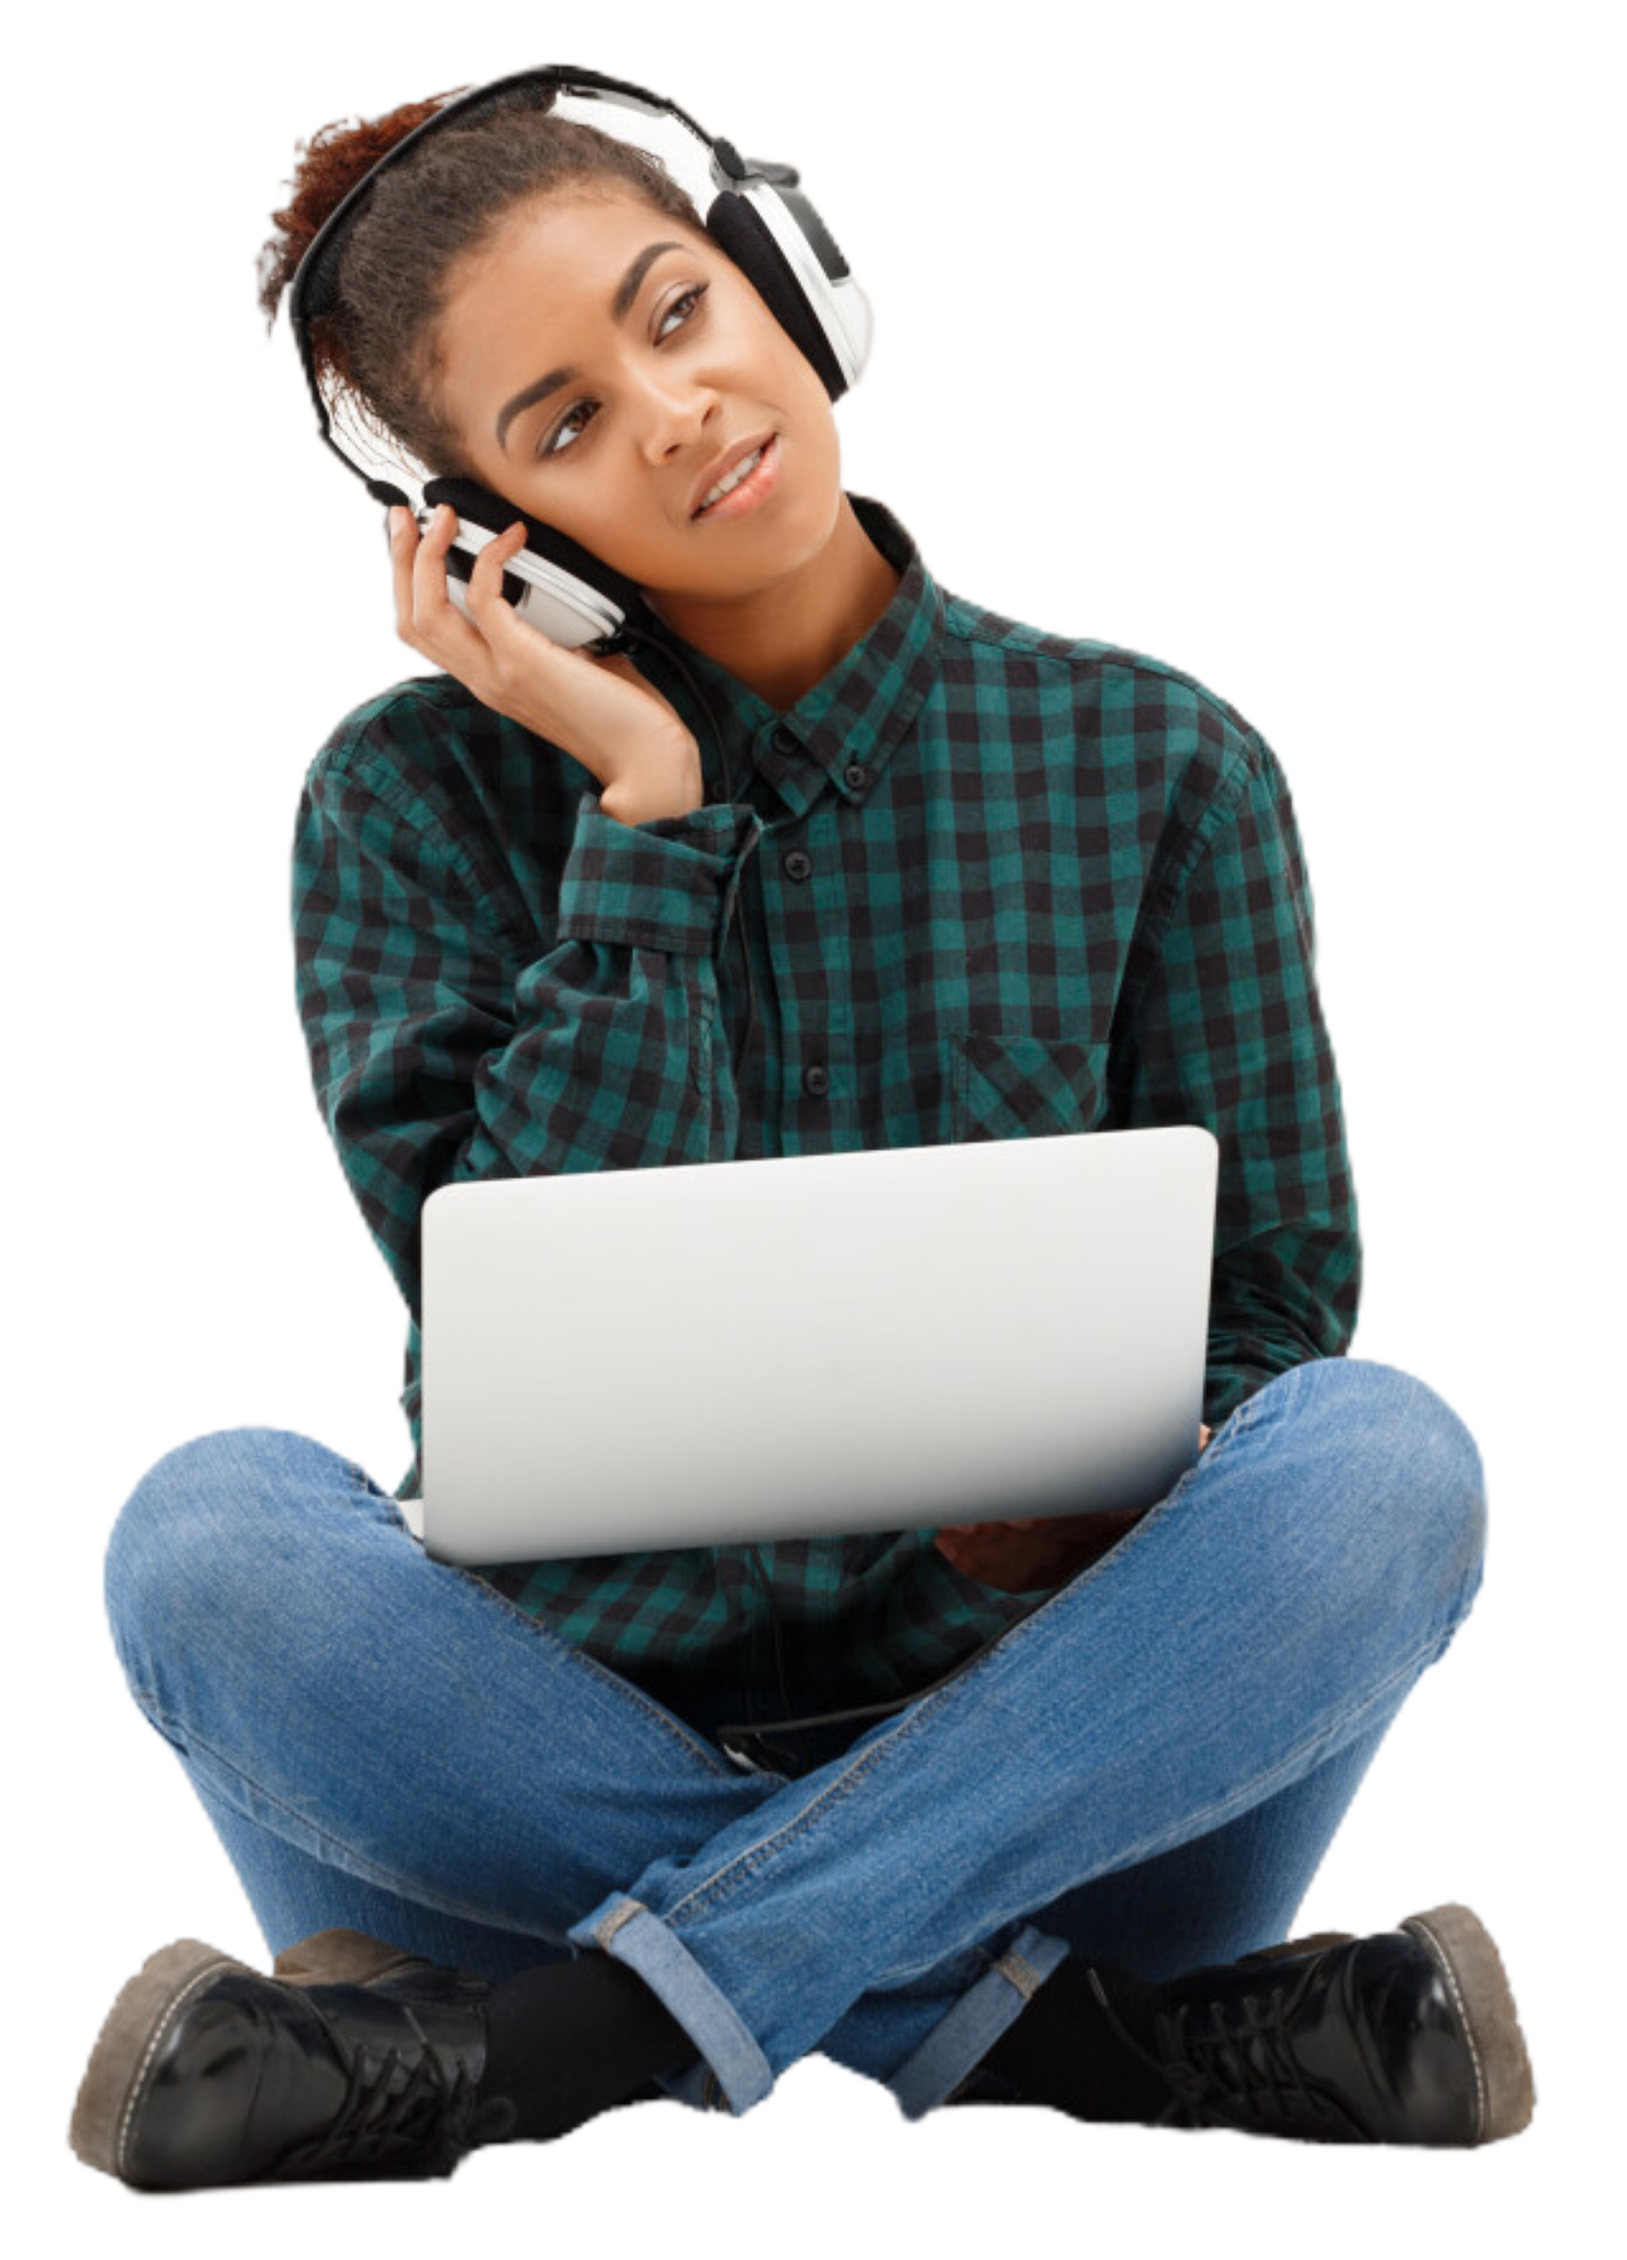
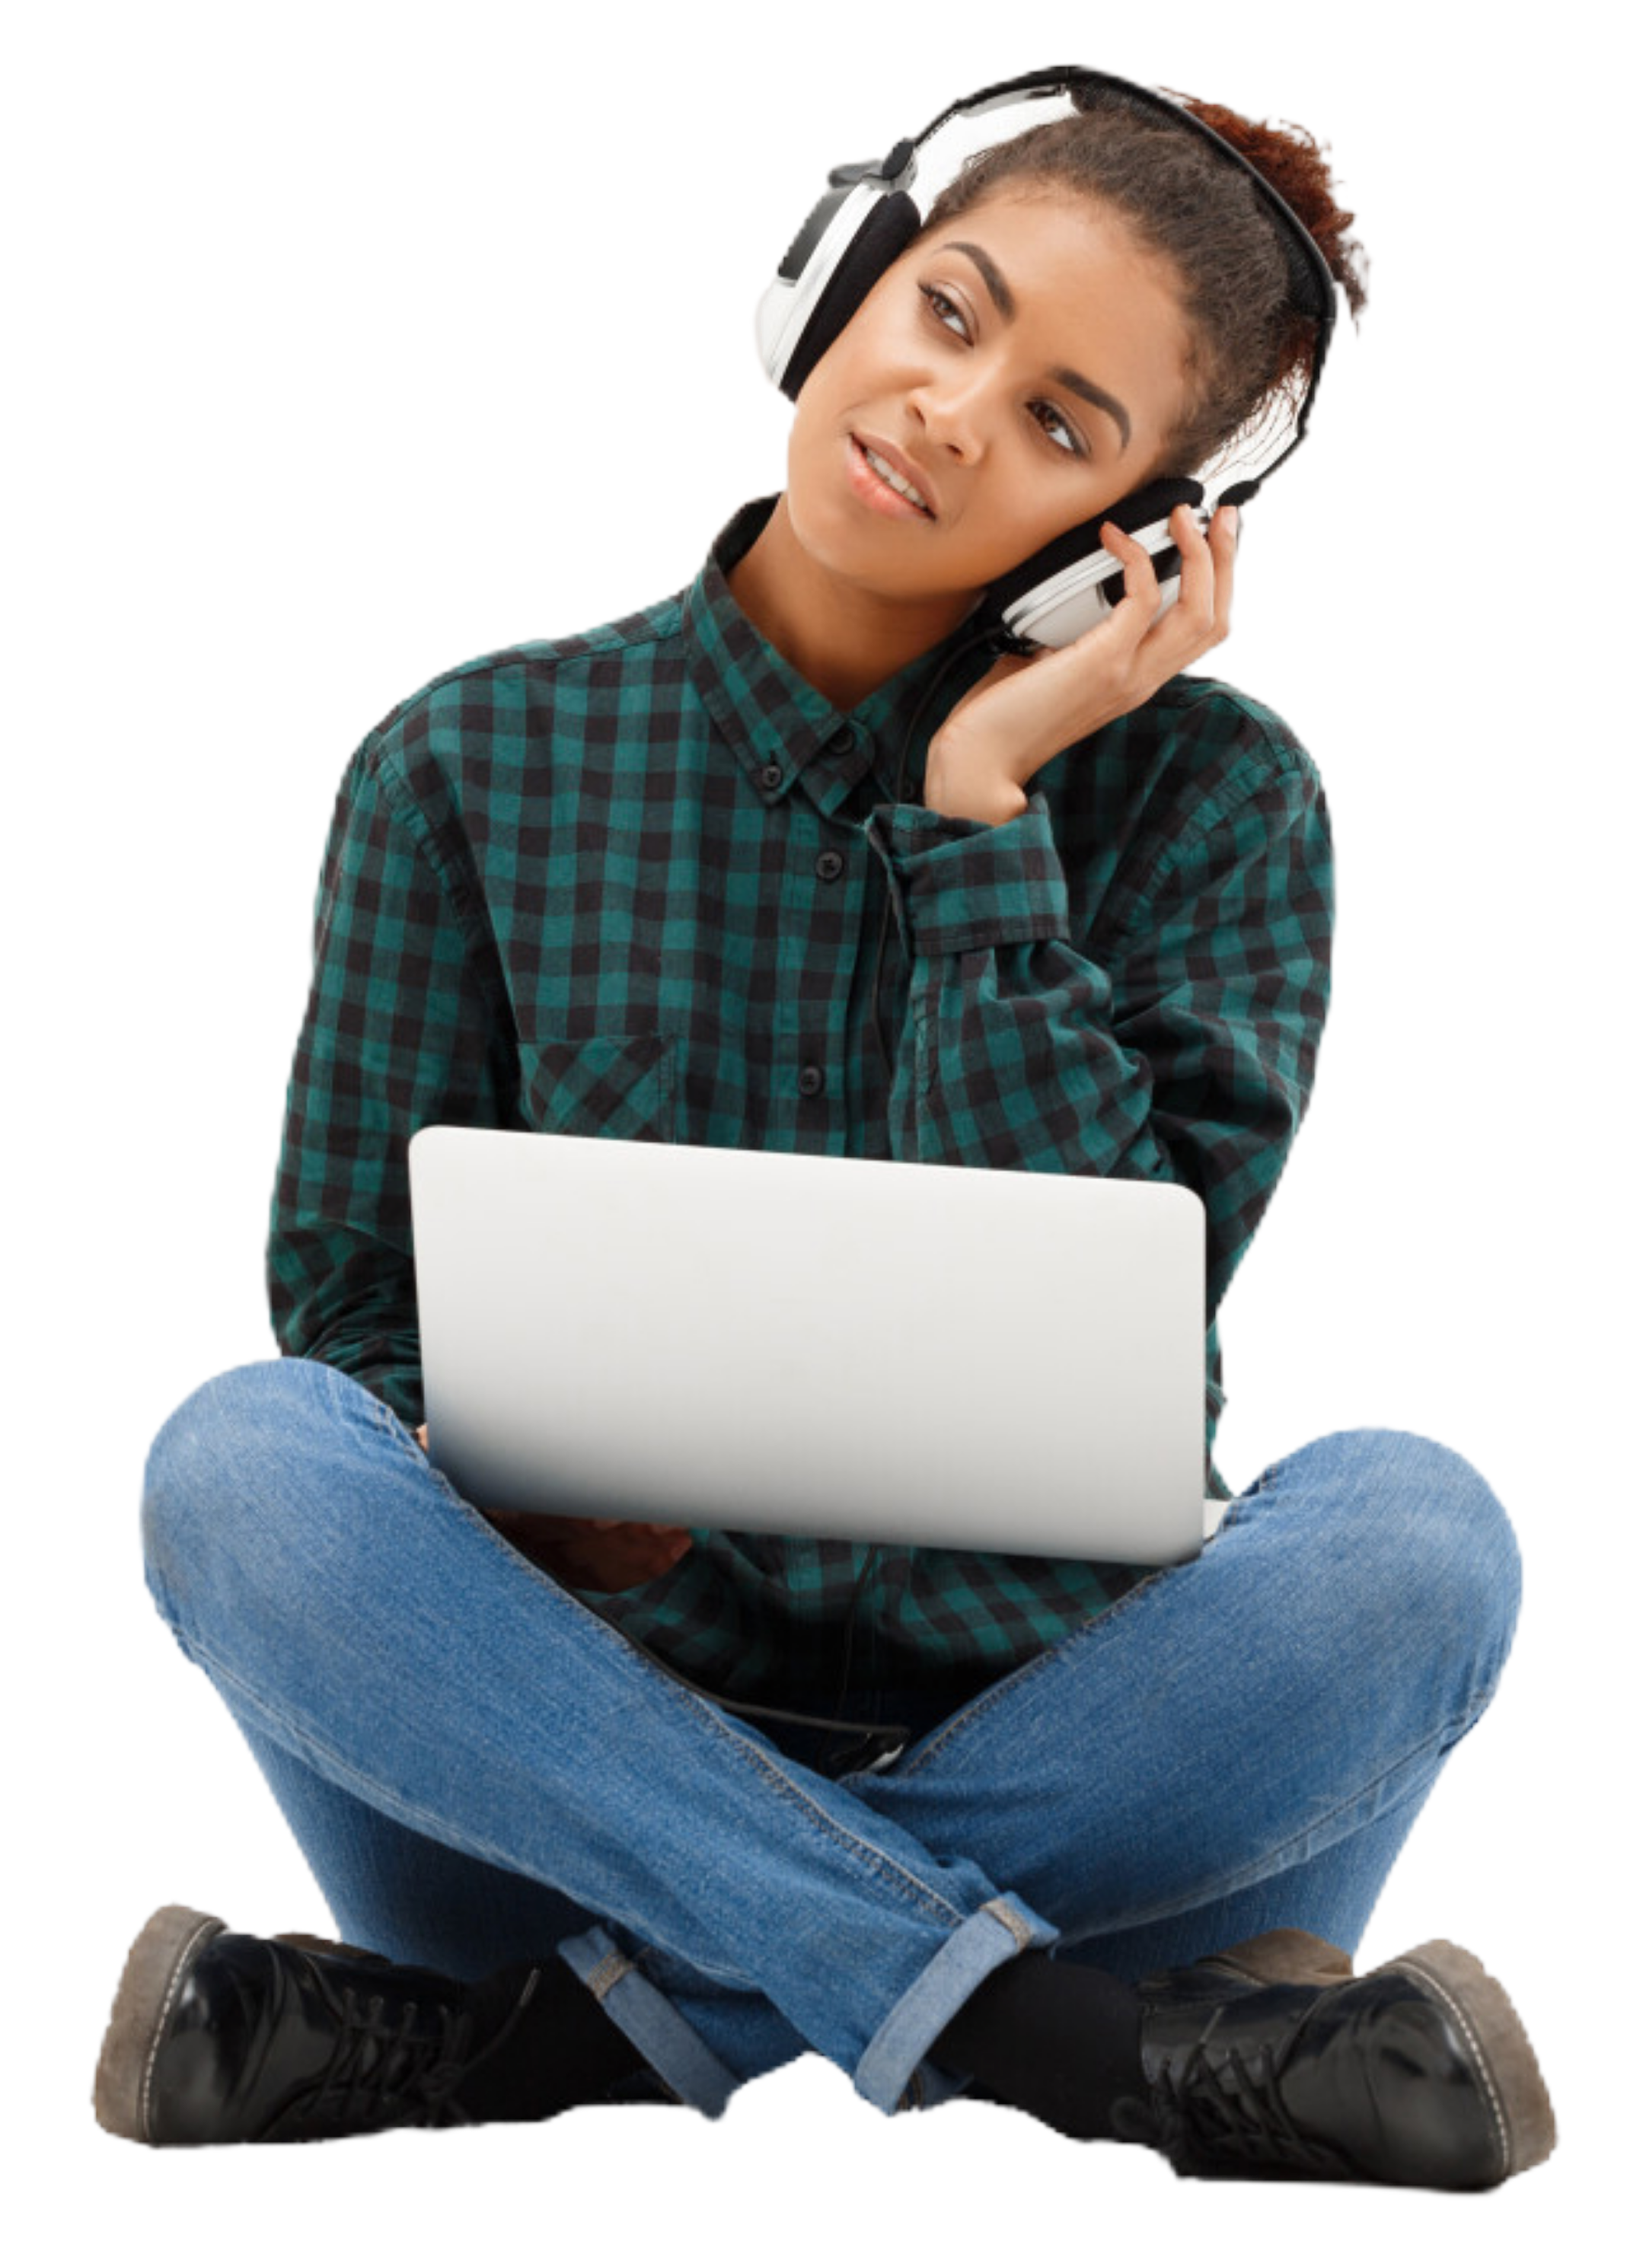
changed design of the hero section

diff --git a/app/components/Courses.tsx b/app/components/Courses.tsx
@@ -1,41 +1,45 @@
 "use client";
 
-import Image from "next/image";
-import React from "react";
 import coding from "@/public/assets/icons/coding.png";
 import cyber_security from "@/public/assets/icons/cyber-security.png";
 import forex_trading from "@/public/assets/icons/forex.png";
 import ui from "@/public/assets/icons/ui.png";
-import machine_learning from "@/public/assets/icons/machine-learning.png";
-import { Bounce, JackInTheBox, Slide } from "react-awesome-reveal";
+import Image from "next/image";
+import { JackInTheBox } from "react-awesome-reveal";
 
 export default function Courses() {
   return (
     <div>
       <div className="grid sm:grid-cols-2 lg:grid-cols-4 w-full gap-8">
-        <JackInTheBox cascade>
+        <JackInTheBox>
           <div className="bg-red-50 w-full rounded p-4 flex flex-row-reverse lg:flex-row items-center gap-2">
             <div className="min-w-12 min-h-12 w-12 h-12 border border-red-400 p-3 rounded-full bg-slate-50 shadow">
               <Image src={cyber_security} alt="" className="rounded-full" />
-            </div>{" "}
+            </div>
             <p className="text-red-600 font-medium">Cyber Security</p>
           </div>
-          <div className="bg-blue-50 w-full rounded p-4 flex items-center gap-2">
+        </JackInTheBox>
+        <JackInTheBox>
+          <div className="bg-slate-50 w-full rounded p-4 flex items-center gap-2">
             <div className="min-w-12 min-h-12 w-12 h-12 border border-blue-400 p-3 rounded-full bg-slate-50 shadow">
               <Image src={coding} alt="" className="rounded-full" />
-            </div>{" "}
+            </div>
             <p className="text-blue-600 font-medium">Web Development</p>
           </div>
+        </JackInTheBox>
+        <JackInTheBox>
           <div className="bg-green-50 w-full rounded p-4 flex flex-row-reverse lg:flex-row items-center gap-2">
             <div className="min-w-12 min-h-12 w-12 h-12  border border-green-400 p-3 rounded-full bg-slate-50 shadow">
               <Image src={forex_trading} alt="" className="rounded-full" />
-            </div>{" "}
+            </div>
             <p className="text-green-600 font-medium">Forex Trading</p>
           </div>
+        </JackInTheBox>
+        <JackInTheBox>
           <div className="bg-violet-50 w-full rounded p-4 flex items-center gap-2">
             <div className="min-w-12 min-h-12 w-12 h-12  border border-violet-400 p-3 rounded-full bg-slate-50 shadow">
               <Image src={ui} alt="" className="rounded-full" />
-            </div>{" "}
+            </div>
             <p className="text-violet-600 font-medium">UI/UX Design</p>
           </div>
         </JackInTheBox>

diff --git a/app/components/Hero.tsx b/app/components/Hero.tsx
@@ -10,20 +10,10 @@ import Image from "next/image";
 
 export default function Hero() {
   return (
-    <main className="min-h-screen w-full justify-center items-center flex flex-col-reverse md:flex-row gap-4 mt-32 md:mt-20 pt-10 md:pt-0">
-      <div className="h-full w-full sm:h-[70%] sm:w-[70%] md:h-full md:w-full flex items-center justify-center md:items-end">
-        <Slide>
-          <Image
-            src={girl_with_laptop}
-            alt="girl with laptop"
-            className="h-[70%] w-[70%]"
-          />
-        </Slide>
-      </div>
-
+    <main className="min-h-screen w-full justify-center items-center flex flex-col md:flex-row gap-4 mt-32 md:mt-20 pt-10 md:pt-0">
       <div className="w-full flex flex-col gap-4">
         <Bounce>
-          <h1 className="text-5xl xl:text-7xl md:text-center font-bold leading-snug md:leading-snug text-slate-800">
+          <h1 className="text-5xl xl:text-7xl font-bold leading-snug md:leading-snug text-slate-800">
             Learn<span className="text-blue-600 px-2 font-bold">Today,</span>{" "}
             <br />
             Lead<span className="text-blue-600 px-2 font-bold">
@@ -32,7 +22,7 @@ export default function Hero() {
             in Tech.
           </h1>
         </Bounce>
-        <p className="md:text-center font-medium text-slate-600">
+        <p className="font-medium text-slate-600">
           <Typewriter
             words={[
               "Join Synproxi and gain the skills you need to succeed in the ever-evolving tech landscape.",
@@ -44,7 +34,7 @@ export default function Hero() {
             delaySpeed={1000}
           />
         </p>
-        <div className="mt-8 flex flex-col justify-center lg:flex-row gap-4 w-full">
+        <div className="mt-8 flex flex-col lg:flex-row gap-4 w-full">
           <Bounce cascade>
             <button className="group px-8 py-4 transition-all text-slate-50 bg-blue-600 hover:bg-blue-800 flex items-center justify-center gap-4 rounded-full shadow-lg hover:shadow-sm w-full lg:w-fit">
               <p className="font-medium">Find Course</p>
@@ -58,6 +48,19 @@ export default function Hero() {
             </button>
           </Bounce>
         </div>
+      </div>
+
+      <div className="h-full w-full sm:h-[70%] sm:w-[70%] md:h-full md:w-full flex items-center justify-center pt-10">
+        <Slide
+          direction="right"
+          className="w-full flex items-center justify-center"
+        >
+          <Image
+            src={girl_with_laptop}
+            alt="girl with laptop"
+            className="h-[70%] w-[70%]"
+          />
+        </Slide>
       </div>
     </main>
   );

diff --git a/app/components/Navbar.tsx b/app/components/Navbar.tsx
@@ -1,7 +1,5 @@
 "use client";
 
-import synproxi_text_logo from "@/public/assets/images/synproxi_text_logo.png";
-import Image from "next/image";
 import { useState } from "react";
 import { AiOutlineClose } from "react-icons/ai";
 import { HiMenuAlt3 } from "react-icons/hi";
@@ -10,11 +8,11 @@ import { IoIosArrowForward } from "react-icons/io";
 export default function Navbar() {
   const [menu, setMenu] = useState<boolean>(false);
   return (
-    <nav className="py-6 z-40 fixed w-full flex items-center justify-center bg-slate-50 shadow border-b border-slate-300 ">
+    <nav className="py-4 z-40 fixed w-full flex items-center justify-center bg-slate-50">
       <div className="w-[90%] lg:w-[85%]">
         <div className="flex items-center justify-between gap-4">
           <div className="z-50">
-            <p className="text-3xl font-bold bg-slate-50 shadow shadow-blue-600 py-1 px-2 rounded border border-blue-200">
+            <p className="text-2xl md:text-3xl font-bold ">
               Syn<span className="text-blue-600">Proxi</span>
             </p>
           </div>
@@ -22,7 +20,7 @@ export default function Navbar() {
           <div
             className={`lg:flex gap-10 ${
               menu
-                ? "fixed h-screen w-4/6 md:w-1/2 top-0 left-0 flex flex-col bg-slate-50 border-r border-slate-300 shadow p-8 pt-28"
+                ? "fixed h-screen w-4/6 md:w-1/2 top-0 left-0 flex flex-col bg-blue-50 shadow p-8 pt-28"
                 : "hidden"
             }`}
           >
@@ -44,7 +42,7 @@ export default function Navbar() {
             <button
               className={`group px-4 py-2 transition-all text-slate-50 bg-blue-600 hover:bg-blue-800 hover:shadow-lg duration-300 flex items-center gap-4 rounded w-fit`}
             >
-              <p className="font-medium">Join For Free</p>
+              <p className="font-medium text-sm">Join For Free</p>
 
               <div className="group-hover:bg-blue-200 transition-all flex items-center justify-center p-2 bg-blue-100 text-blue-600 rounded">
                 <IoIosArrowForward size={24} />

diff --git a/app/layout.tsx b/app/layout.tsx
@@ -1,10 +1,11 @@
 import type { Metadata } from "next";
-import { DM_Sans } from "next/font/google";
+import { Sora } from "next/font/google";
 import "./globals.css";
 import Navbar from "./components/Navbar";
 
-const dm_sans = DM_Sans({
+const sora = Sora({
   subsets: ["latin"],
+  weight: ["100", "200", "300", "400", "500", "600", "700", "800"],
 });
 
 export const metadata: Metadata = {
@@ -19,7 +20,7 @@ export default function RootLayout({
 }>) {
   return (
     <html lang="en">
-      <body className={`${dm_sans.className} bg-slate-50 w-full h-full flex`}>
+      <body className={`${sora.className} bg-blue-50 w-full h-full flex`}>
         <div className="w-full h-full flex flex-col items-center">
           <Navbar />
           <div className="h-full w-[90%] lg:w-[85%]">{children}</div>
